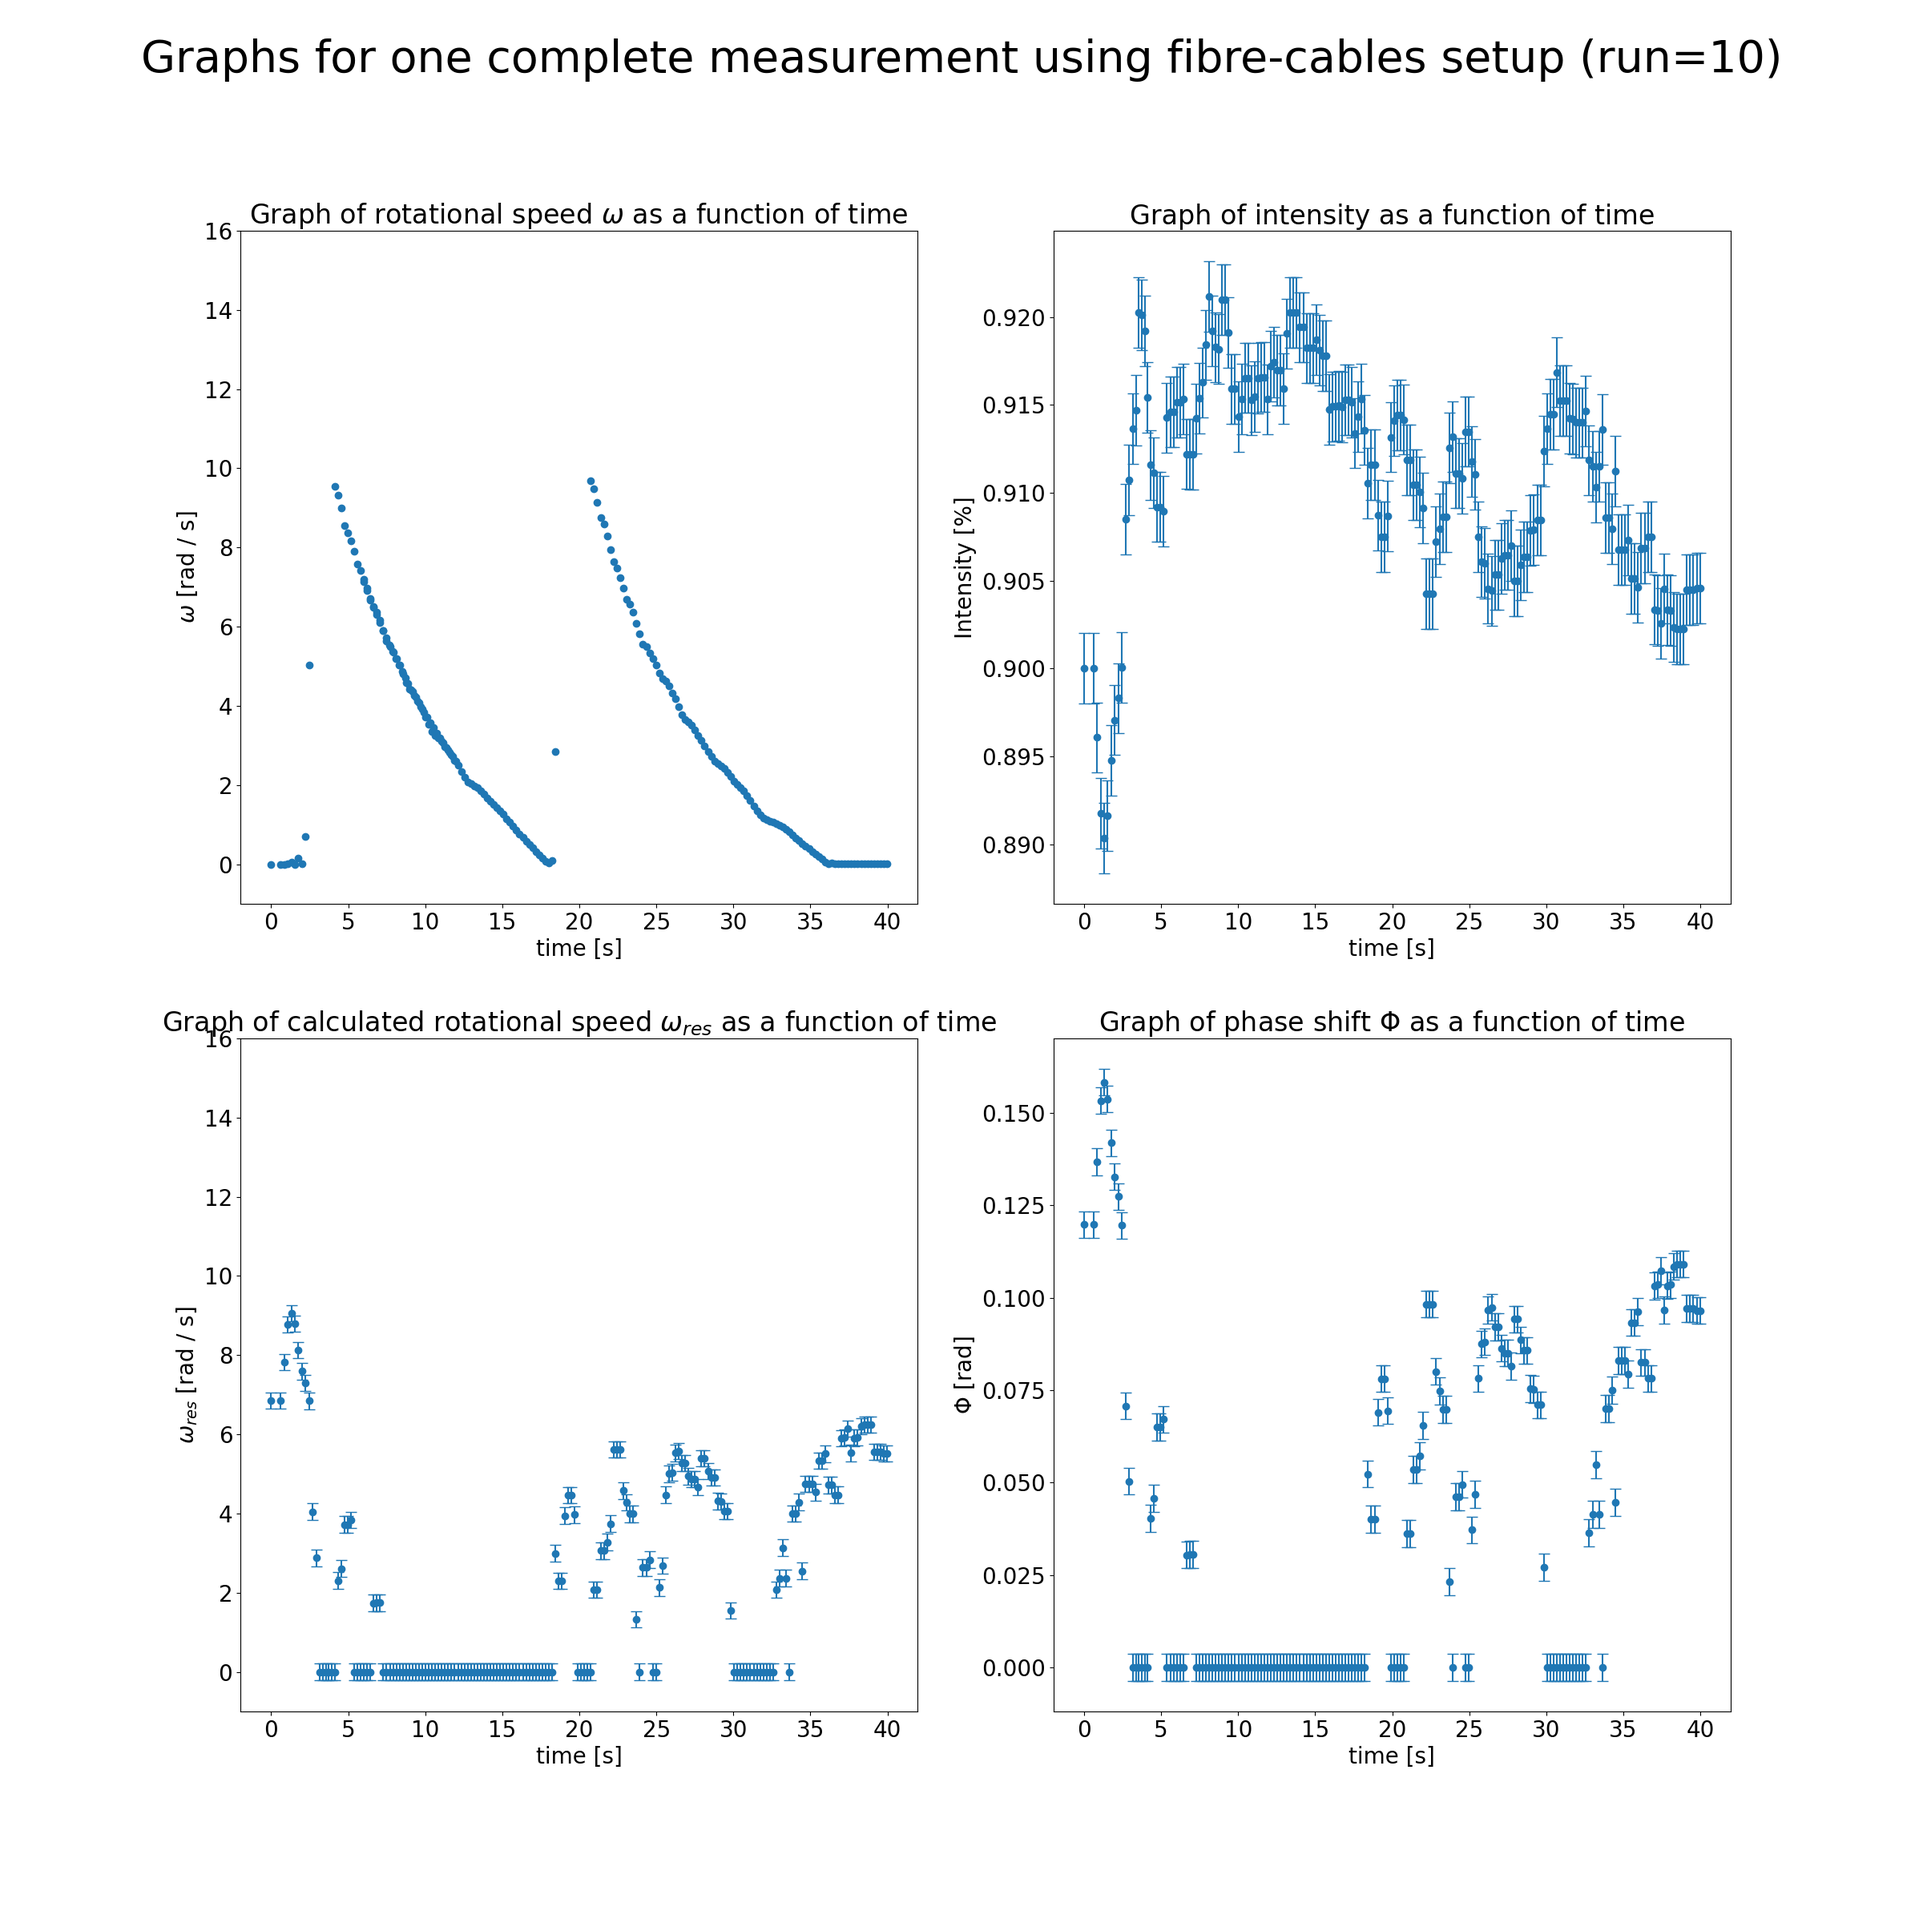
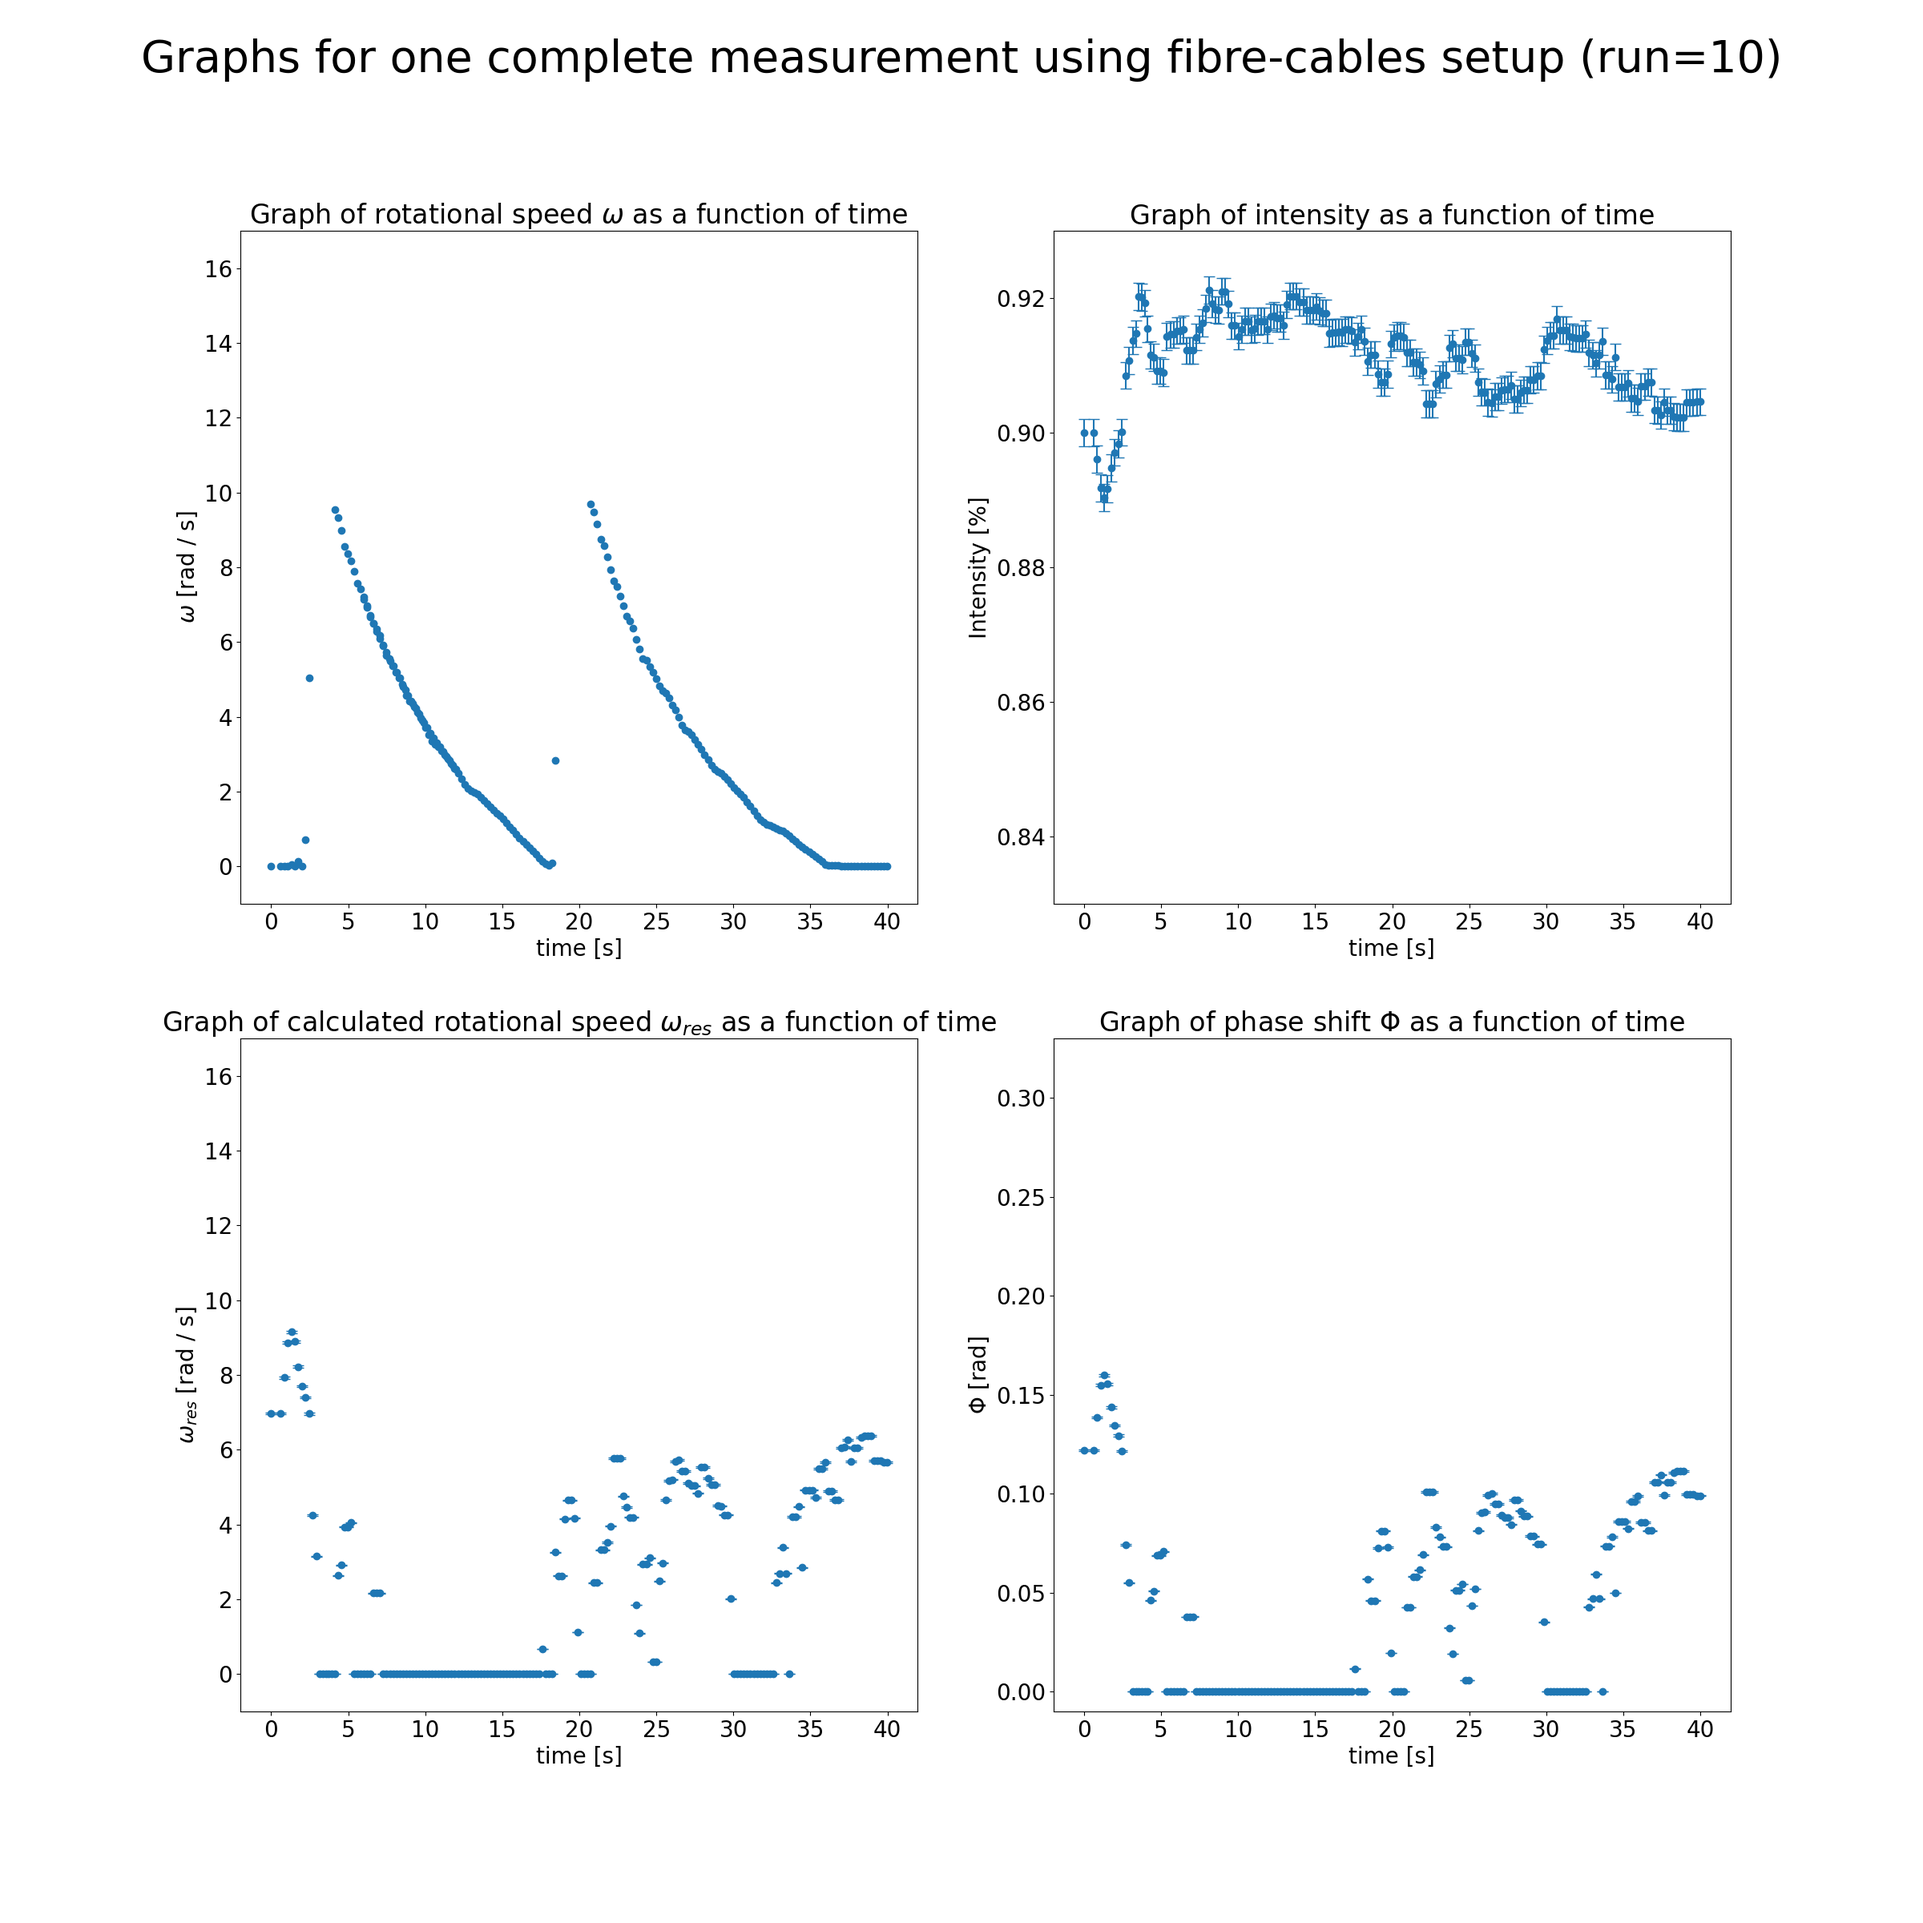
Updated data processing

diff --git a/data/Data_FibreCablesSetup_Attempt1/data_processing.py b/data/Data_FibreCablesSetup_Attempt1/data_processing.py
@@ -111,7 +111,7 @@ def plot_intensity(data, i, ax, iax, iax2):
 
 def plot_intensity_vs_omega(data, i, ax, iax, iax2):
     ax[iax][iax2].scatter(abs(data[i]["omega"]), data[i]["intensity"])
-    ax[iax][iax2].title.set_text(f"Graph of intensity as a function of $\omega$")
+    ax[iax][iax2].title.set_text(f"Graph of intensity $I$ as a function of $\omega$")
     ax[iax][iax2].set_xlabel(f"|$\omega$| [rad / s]")
     ax[iax][iax2].set_ylabel("Intensity [%]")
 
@@ -144,10 +144,10 @@ def calculate_phi(data, i, I0):
     data[i]["phi"] = data[i]["intensity"].apply(helper_func)
 
 
-def calculate_phi_errors(data, i):
+def calculate_phi_errors(data, i, I0):
     I = data[i]["intensity"]
     # data[i]["phi_err"] = Ierr / (2 * np.sqrt(I * (I0 - I)))
-    data[i]["phi_err"] = 2*I*Ierr  # approximation
+    data[i]["phi_err"] = 2*data[i]["phi"]*I0*Ierr  # approximation
 
 
 def calculate_omega_res(data, i):
@@ -176,8 +176,10 @@ def plot_run_res(data, i):
     fig, ax = plt.subplots(2, 2, figsize=(24, 24))
     fig.suptitle(f"Graphs for one complete measurement using fibre-cables setup (run={i})", fontsize=40)
 
-    ax[0][0].set_ylim([-1, 16])
-    ax[1][0].set_ylim([-1, 16])
+    ax[0][0].set_ylim([-1, 17])
+    ax[1][0].set_ylim([-1, 17])
+    ax[0][1].set_ylim([0.83, 0.93])
+    ax[1][1].set_ylim([-0.01, 0.33])
 
     plot_omega(data, i, ax, 0, 0)
     plot_intensity(data, i, ax, 0, 1)
@@ -189,24 +191,27 @@ def plot_run_res(data, i):
 
 
 def weighted_mean_squared_error(data, i):
-    y_true = data[i]["omega"]
-    y_pred = data[i]["omega_res"]
-    y_errors = data[i]["omega_res_err"]
+    data_relevant = pd.DataFrame.copy(data[i][data[i]["omega_res"] > 1])
+    y_true = data_relevant["omega"]
+    y_pred = data_relevant["omega_res"]
+    y_errors = data_relevant["omega_res_err"]
     weights = 1 / np.square(y_errors)
+
     return np.sum(weights * np.square(y_true - y_pred)) / np.sum(weights)
+
 
 
 def calculate_I0(data, i):
     data[i]["intensity_diff"] = data[i]["intensity"].diff()
-    diff_threshold = data[i]["intensity_diff"].std() * 3
-    mask = (data[i]["intensity_diff"] < diff_threshold) & (data[i]["intensity_diff"].shift(-1) < diff_threshold)
+    diff_threshold = data[i]["intensity_diff"].std()
+    mask = (data[i]["intensity_diff"].abs() < diff_threshold) & (data[i]["intensity_diff"].shift(-1).abs() < diff_threshold)
     average_intensity = data[i].loc[mask, "intensity"].mean()
     return average_intensity + Ierr
 
 # consts
 pi = np.pi
 c = 299792458  # m / s
-Ierr = 0.2 / 100
+Ierr = 0.002
 
 # consts laser
 # R = 15 / 100  # m
@@ -227,13 +232,16 @@ if __name__ == "__main__":
         calculate_omega3(runs, i)  # here error is negligible
         calculate_rel_diff_intensity(runs, i)
         calculate_phi(runs, i, I0)
-        calculate_phi_errors(runs, i)
+        calculate_phi_errors(runs, i, I0)
         calculate_omega_res(runs, i)
         calculate_omega_res_err(runs, i)
+        print(i, I0)
+        print(weighted_mean_squared_error(runs, i))
 
         plot_run_res(runs, i)
         with open(f"results/precision{i}.txt", "w") as f:
-            f.write(f"Curve evaluated precision is {weighted_mean_squared_error(runs, i)}")
+            f.write(f"Curve evaluated precision is {weighted_mean_squared_error(runs, i)}\n")
+            f.write(f"Calculated I0 = {I0}\n")
 
 
 
